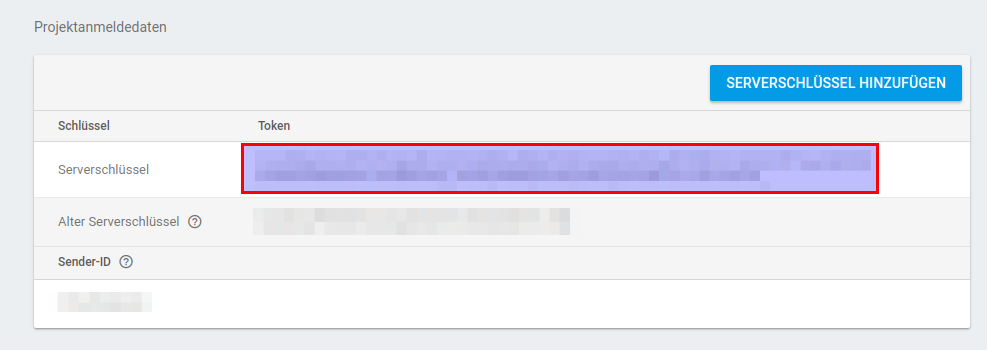
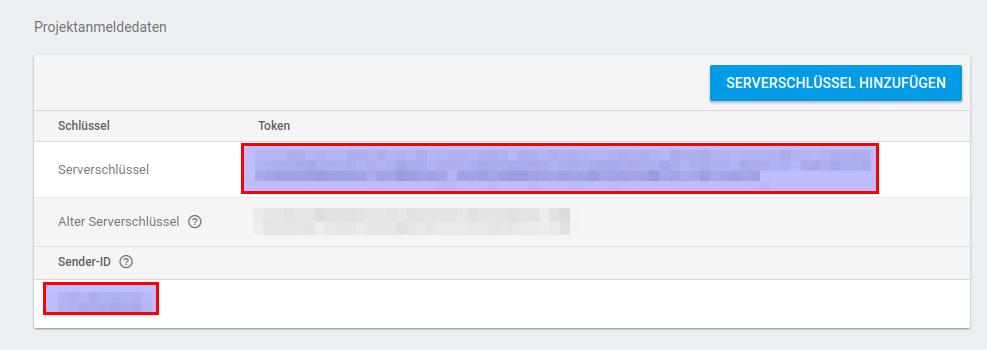
Update FCM docs to reflect required sender-id

Changed region(s): [[0.0304, 0.8, 0.1824, 0.9143]]

diff --git a/installation.html b/installation.html
@@ -80,8 +80,7 @@ bigimg: /images/installation.jpg
 
     <h2 id="fcm">Firebase Cloud Messaging</h2>
 
-    <p>Firebase Cloud Messaging (FCM) enables you to send push notifications to Android handsets. This enables you to send
-        updates in nearly realtime to andFHEM (from 2.4.2 onwards).</p>
+    <p>Firebase Cloud Messaging (FCM), formerly Google Cloud Messaging (GCM) enables you to send push notifications to Android handsets. This allows to send updates and messages in near-realtime.</p>
 
     <p><b>Installation Steps:</b>
     <ul>
@@ -109,7 +108,7 @@ bigimg: /images/installation.jpg
             </ul>
         </li>
 
-        <li>Create a Google GCM Account.
+        <li>Create a FCM project.
             <ul>
                 <li>Go to <a target="_blank" href="https://console.firebase.google.com">https://console.firebase.google.com</a>
                     and create a new project. <br/>
@@ -121,7 +120,7 @@ bigimg: /images/installation.jpg
                 <li>Hit the gear button and jump to project settings.<br/>
                     <a href="../images/installation/gcm/3.png"><img src="../images/installation/gcm/3.png"/></a>
                 </li>
-                <li>Select cloud messaging. This page contains our required server key ("api key"). The sender-id is no longer required as of andFHEM 4.7.0<br/>
+                <li>Select cloud messaging. This page contains our required server key ("api key") and the required "sender-id".<br/>
                     <a href="../images/installation/gcm/4.png"><img src="../images/installation/gcm/4.png"/></a>
                 </li>
             </ul>
@@ -140,6 +139,7 @@ bigimg: /images/installation.jpg
 
         <li>Link andFHEM
             <ul>
+                <li>Open the settings of andFHEM and look for a setting called "Cloud Messaging Sender-ID". Enter the sender-id of the created FCM project.</li>
                 <li>Refresh your xmllist and look for your GCMSend device you just created. Open the detail page and
                     click the button to register your device. Internally, andFHEM will add your device as regIds
                     attribute of your gcm device. <br/>
@@ -150,7 +150,6 @@ bigimg: /images/installation.jpg
     </ul>
 
     <h2 id="client_side_certificates">Client Side Certificates</h2>
-
 
     <p>You can enforce your webserver to ask for a certificate. Only if the clients has access to the correct
         certificate, the webserver will allow access to the resource (<a
